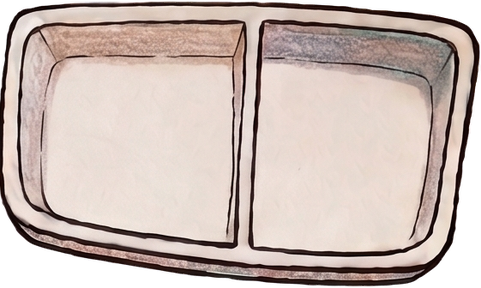
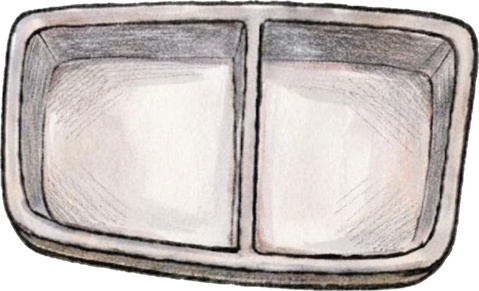
feat: redraw the pineapple/olives bin, cut all bins from own drawings
Cut bin3 from its own empty and full drawings like bins 1 and 2, and since every bin is now drawn separately, drop the layout-sheet fill and label path and its compartment finder, keeping the empty layout sheet only to locate each bin's spot.

diff --git a/tools/art/extract.py b/tools/art/extract.py
@@ -29,7 +29,7 @@ MIN_SPECK = 400  # drop foreground islands smaller than this, px
 LAYOUT_DIFF = 35  # layout-vs-plate difference that counts as drawn
 FIT_DOWNSAMPLE = 4
 FIT_SCALES = np.arange(0.6, 1.4, 0.005)
-FILL_FEATHER = 1.5  # compartment mask blur, px
+FILL_FEATHER = 1.5  # fill mask blur, px
 FILL_CUTOFF = 0.01
 # Separately drawn bins: food is where the full drawing differs from the empty one, cleaned up in px
 FOOD_DIFF = 45
@@ -52,14 +52,15 @@ DOUGH_BAKE_PAD = 16  # paper added around the drawing so dough touching the canv
 DOUGH_SMOOTH = 5  # trims pencil-shadow scraps off the silhouette, px
 DOUGH_EDGE_SAMPLES = 180
 DOUGH_RAY_STEP = 0.25
-# Bins with 'drawn' (empty, full) come from their own drawings, scaled onto the sheet bin's spot; their label box is in
+# Bins come from their own drawings (empty, full), scaled onto their box on the empty layout sheet; the label box is in
 # the empty drawing's px
 BINS = [
     {'name': 'bin1', 'box': (204, 114, 792, 444), 'label': (0, 570, 1024, 803), 'fills': ('sauce', 'cheese'),
      'drawn': ('pizza_bin1_empty.png', 'pizza_bin1_full.png')},
     {'name': 'bin2', 'box': (930, 132, 1482, 456), 'label': (0, 560, 1024, 817), 'fills': ('pepperoni', 'basil'),
      'drawn': ('pizza_bin2_empty.png', 'pizza_bin2_full.png')},
-    {'name': 'bin3', 'box': (1590, 144, 2160, 492), 'label': (1560, 448, 2140, 570), 'fills': ('pineapple', 'olives')},
+    {'name': 'bin3', 'box': (1590, 144, 2160, 492), 'label': (0, 560, 1024, 808), 'fills': ('pineapple', 'olives'),
+     'drawn': ('pizza_bin3_empty.png', 'pizza_bin3_full.png')},
 ]
 # Where to look for the separately drawn pieces in the layout
 PEEL_REGION = (560, 500, 1760, 1792)
@@ -189,22 +190,6 @@ def save(name, pixels, scale):
     im = im.convert('RGBa').resize(size, Image.LANCZOS).convert('RGBA')
     im.save(OUT / f'{name}.png', optimize=True)
     return l, t, r, b
-
-
-def compartments(mask, ink):
-    """Left and right compartment areas: inside the rim band, split at the divider."""
-    comps, n = ndimage.label(mask & ~ink)
-    # The rim band is a ring, so its bounding box is the biggest
-    boxes = ndimage.find_objects(comps)
-    areas = [(s[0].stop - s[0].start) * (s[1].stop - s[1].start) for s in boxes]
-    rim = comps == 1 + int(np.argmax(areas))
-    inner = ndimage.binary_fill_holes(rim) & ~rim
-    xs = np.nonzero(inner.any(0))[0]
-    third = (xs.max() - xs.min()) // 3
-    mid = slice(xs.min() + third, xs.max() - third)
-    divider = mid.start + int(np.argmax((inner & ink)[:, mid].sum(0)))
-    cols = np.arange(inner.shape[1])[None, :]
-    return inner & (cols < divider), inner & (cols >= divider)
 
 
 def align_to(img, mask, shape):
@@ -539,26 +524,10 @@ def main():
     dough_pieces(record)
     dough_bakes(record)
 
-    # Bins: empty base plus one food overlay per compartment
-    empty = load('pizza_bins_empty.jpeg')
-    full = load('pizza_bins_full.jpeg')
-    full_paper = estimate_paper(full)
-    empty_fg = foreground(empty, plate, use_chroma=False)
-    full_fg = foreground(full, full_paper, use_chroma=False)
-    ink = lum(empty) < INK_LUM
+    # Bins: each drawn on its own; the empty layout sheet gives its spot
+    empty_fg = foreground(load('pizza_bins_empty.jpeg'), plate, use_chroma=False)
     for spec in BINS:
-        mask = largest(in_box(empty_fg, spec['box']))
-        if 'drawn' in spec:
-            drawn_bin(spec, mask, place, f)
-            continue
-        place(spec['name'], cutout(empty, plate, mask), f)
-
-        for fill_name, region in zip(spec['fills'], compartments(mask, ink)):
-            soft = ndimage.gaussian_filter(region.astype(np.float32), FILL_FEATHER)
-            place(f'fill_{fill_name}', rgba(full, full_paper, soft * (soft > FILL_CUTOFF)), f)
-
-        near_bin = ndimage.binary_dilation(largest(in_box(full_fg, spec['box'])), iterations=LABEL_CLEARANCE)
-        place(f'label_{spec["name"]}', rgba(full, full_paper, lettering(full, full_paper, spec['label'], near_bin)), f)
+        drawn_bin(spec, largest(in_box(empty_fg, spec['box'])), place, f)
 
     # Peel and dragon were drawn apart; fit each onto the layout
     target = np.abs(layout - plate).max(2) > LAYOUT_DIFF
